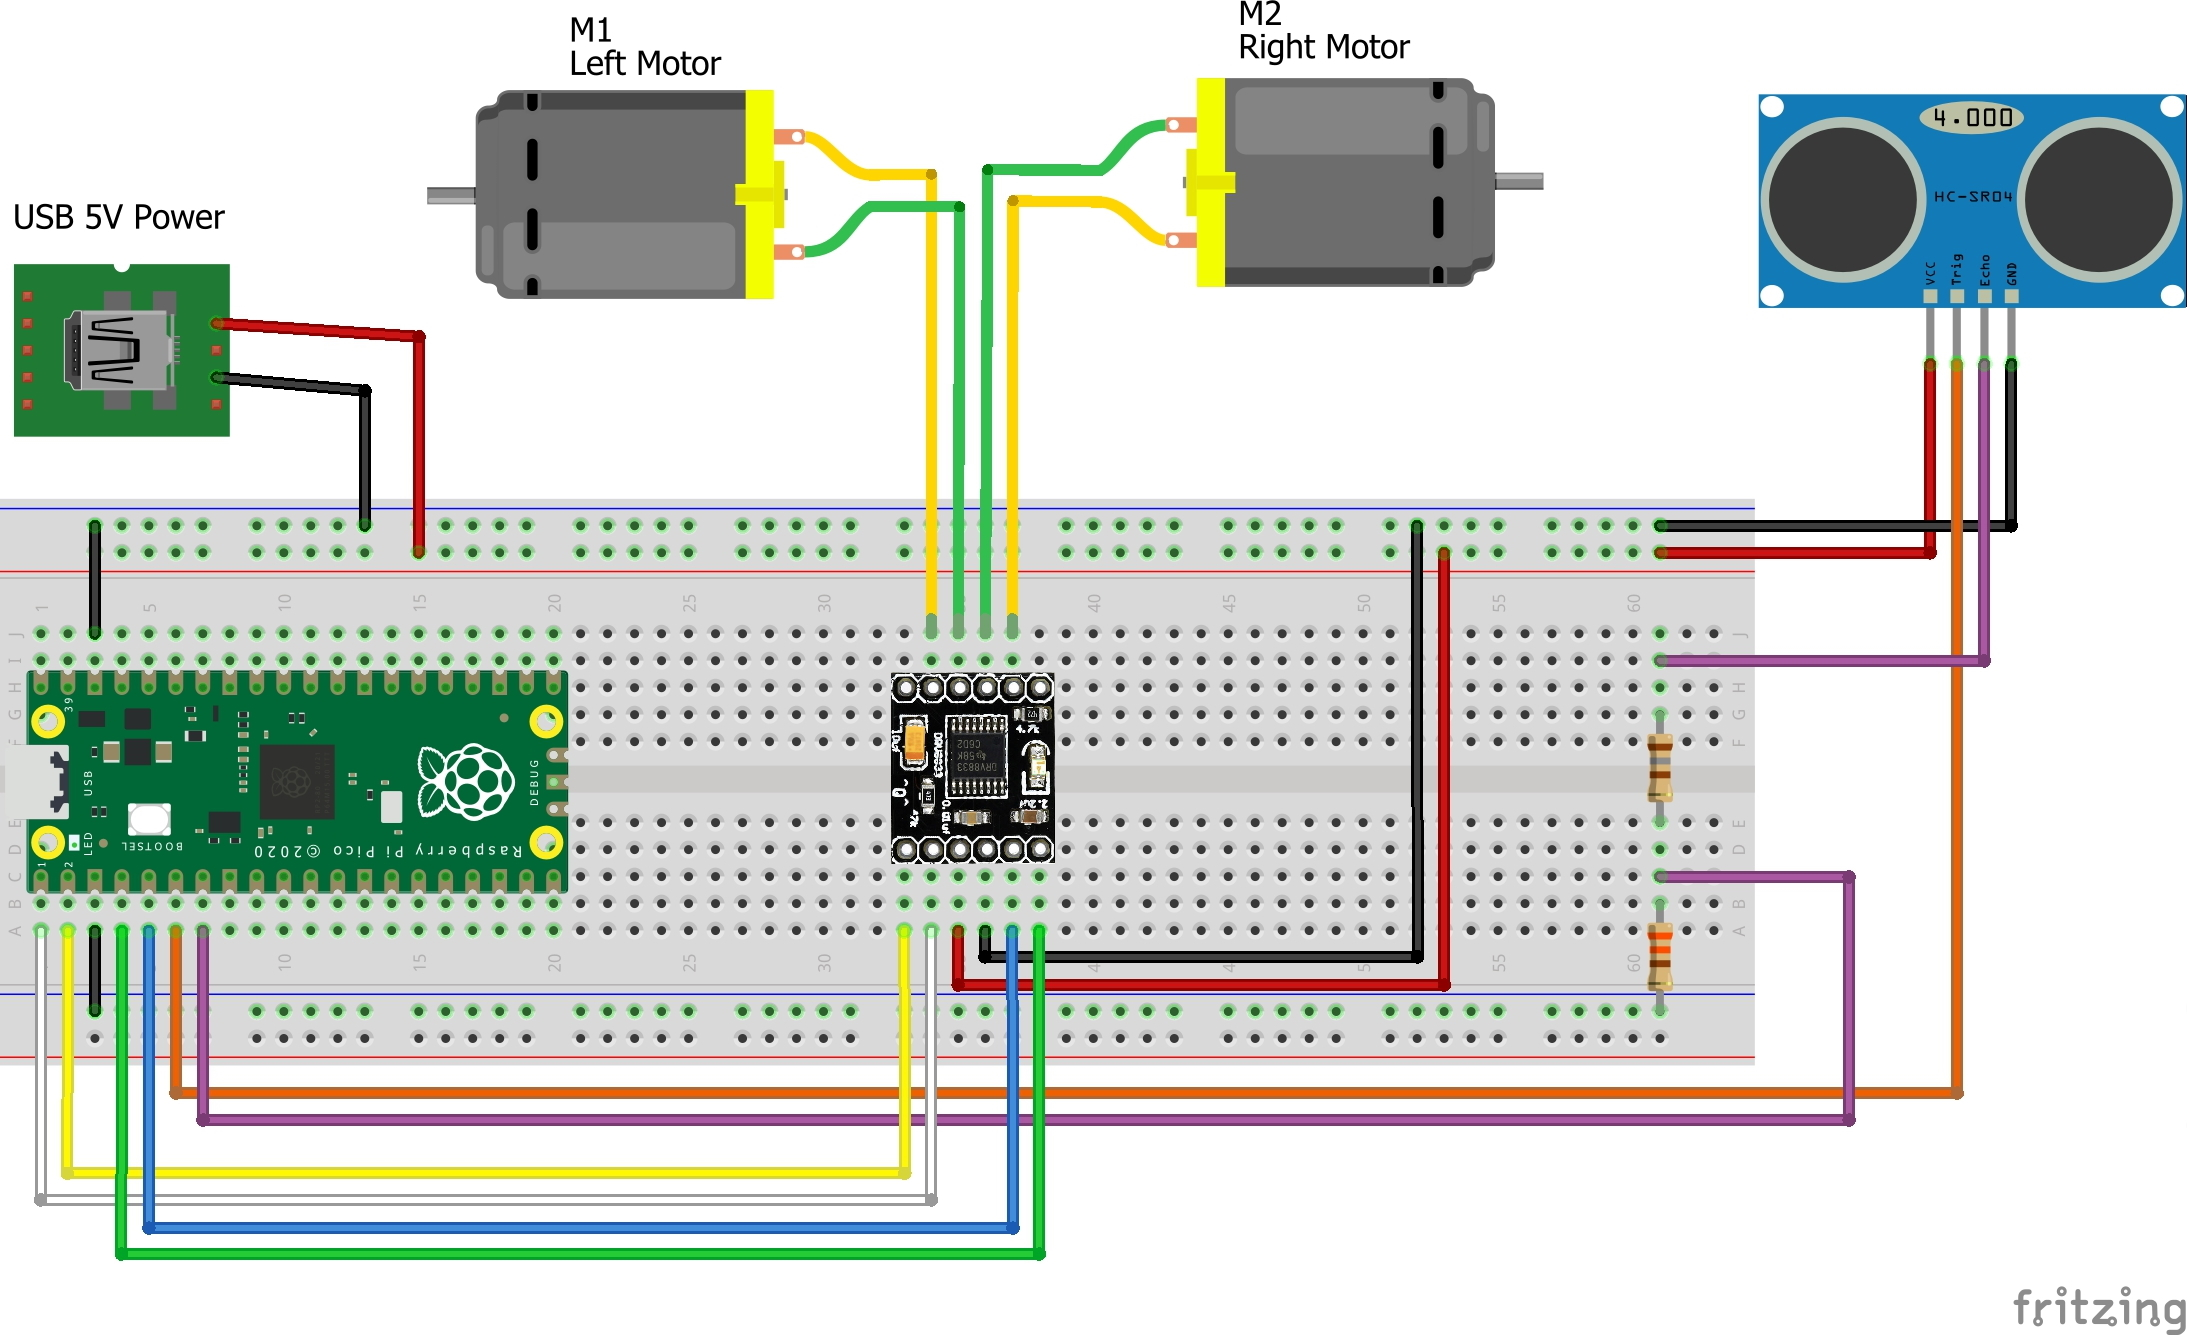
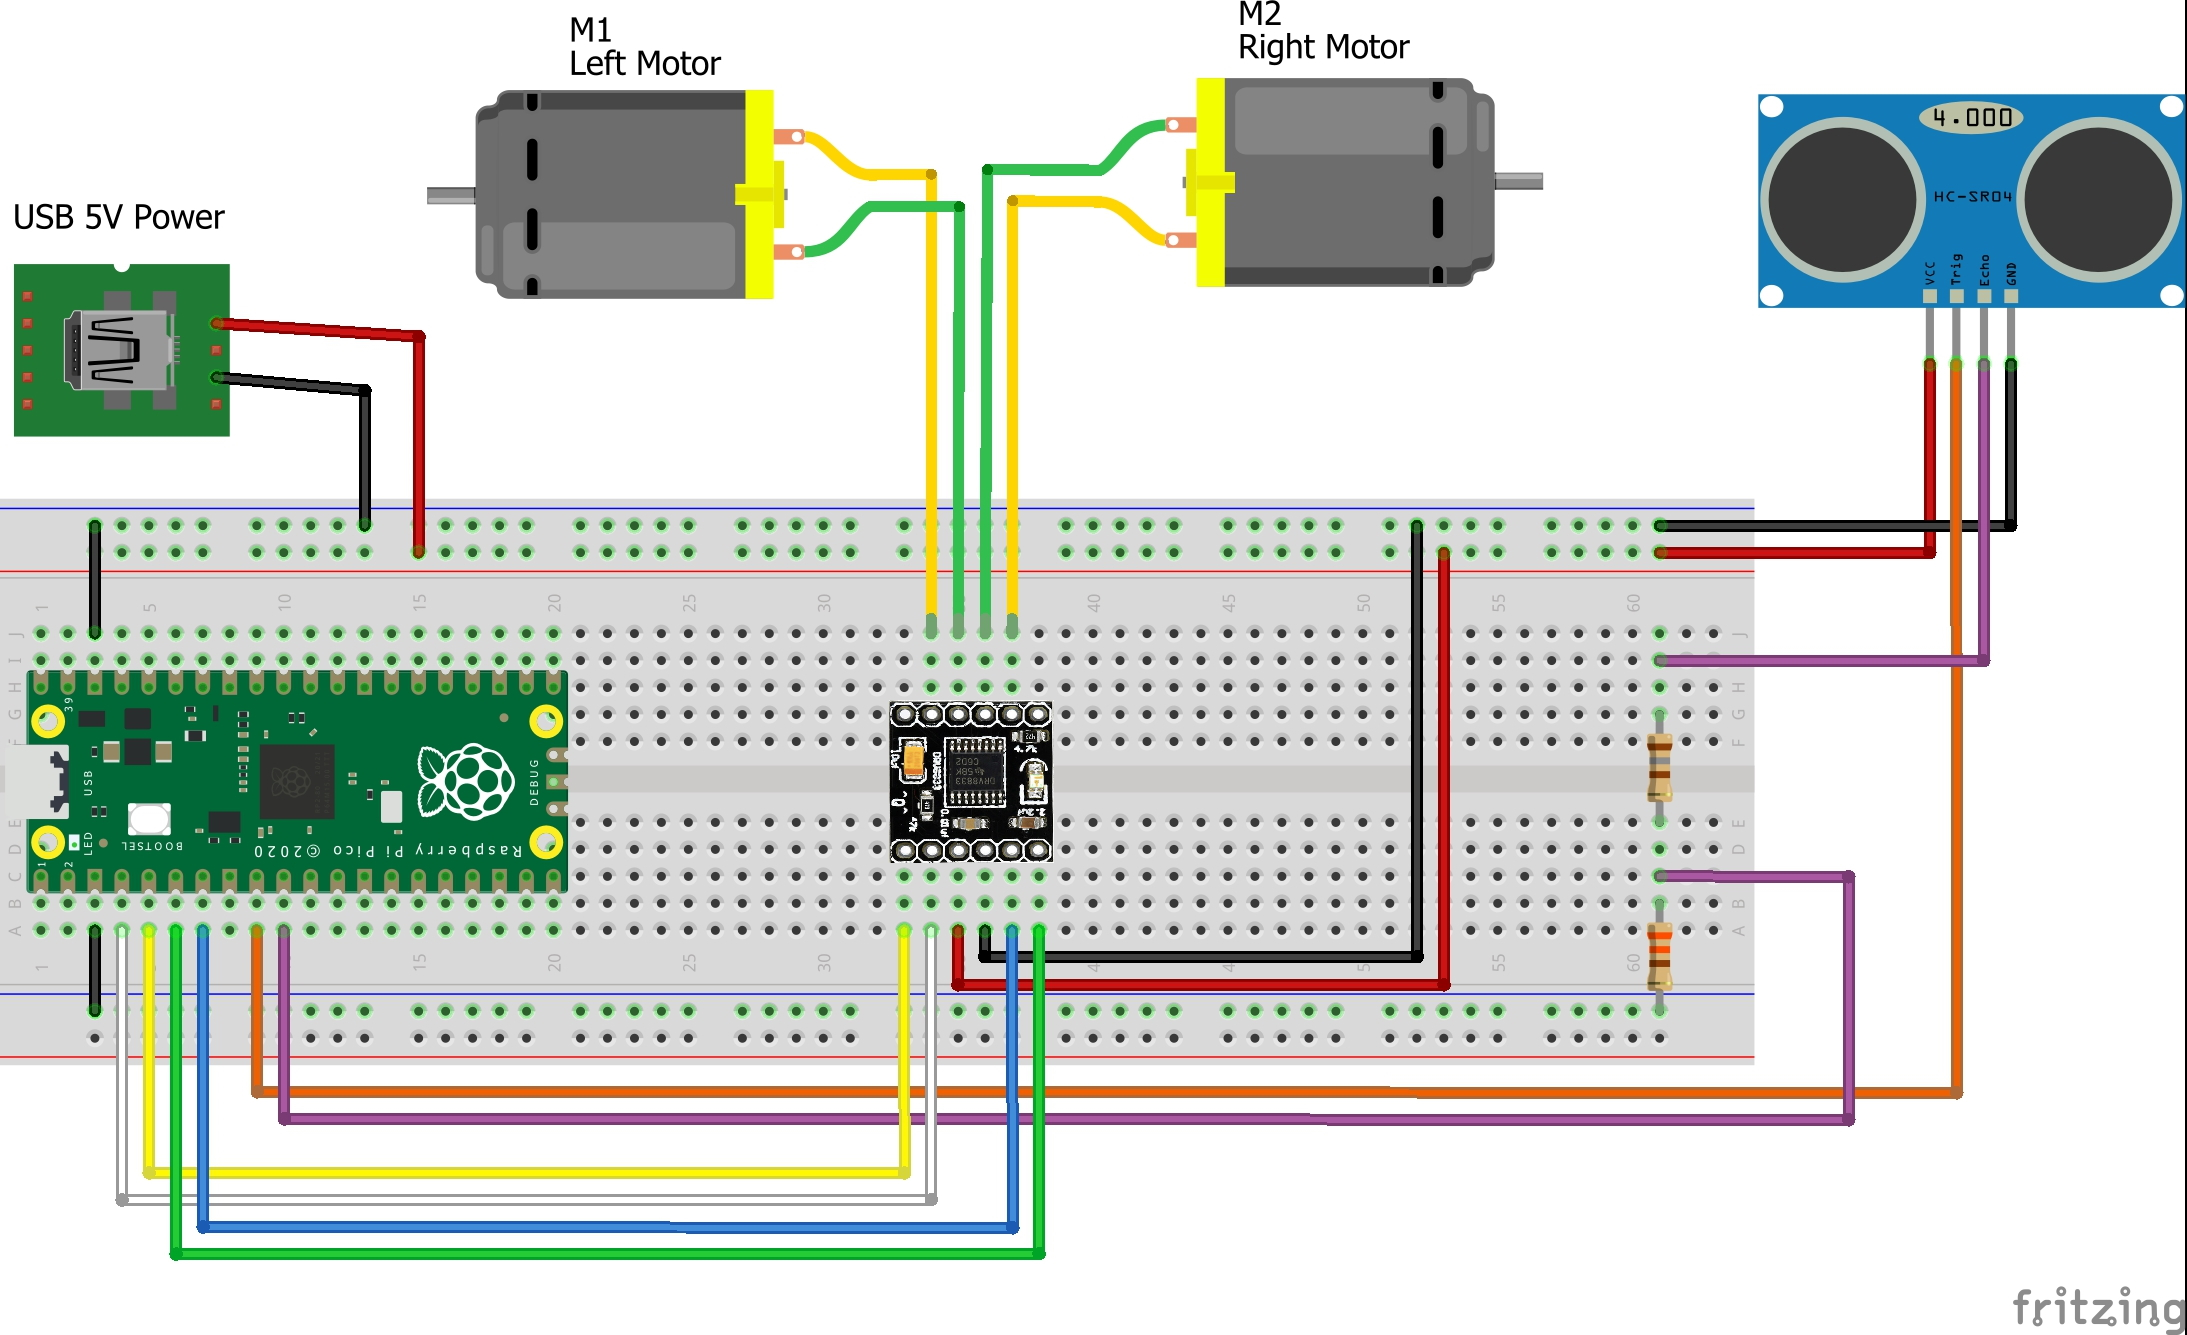
Simply move the GPIO to free the UART GPIOs

diff --git a/src/serpico.c b/src/serpico.c
@@ -6,11 +6,12 @@
  * 
  * Name          : serpico.c
  * @author       : Roberto D'Amico (bobboteck)
- * Last modified : 2021/02/16
- * Revision      : 1.0.0
+ * Last modified : 2021/03/21
+ * Revision      : 1.2.1
  * 
  * Modification History:
  * Date         Version Modified By     Description
+ * 2021-03-21   1.2.1   Roberto D'Amico Simply move the GPIO to free the UART GPIOs
  * 2021-03-01   1.2.0   Roberto D'Amico Implemented sensor limit and move
  * 2021-02-19   1.1.0   Roberto D'Amico Test US HC-SR04 Sensor - OK!
  * 2021-02-16   1.0.0   Roberto D'Amico Move forward and backward the Robot
@@ -46,8 +47,8 @@
 #include "hardware/clocks.h"
 
 const uint LED_PIN = 25;
-const uint US_TRIGGER = 4;
-const uint US_ECHO = 5;
+const uint US_TRIGGER = 6;
+const uint US_ECHO = 7;
 
 uint32_t usMeter(void);
 void turn(uint s0, uint s1);
@@ -67,37 +68,37 @@ int main()
     gpio_init(US_ECHO);
     gpio_set_dir(US_ECHO, GPIO_IN);
 
-    // GPIO 0, 1, 2 and 3 are allocated as PWM
-    gpio_set_function(0, GPIO_FUNC_PWM);
-    gpio_set_function(1, GPIO_FUNC_PWM);
+    // GPIO 2, 3, 4 and 5 are allocated as PWM
     gpio_set_function(2, GPIO_FUNC_PWM);
     gpio_set_function(3, GPIO_FUNC_PWM);
+    gpio_set_function(4, GPIO_FUNC_PWM);
+    gpio_set_function(5, GPIO_FUNC_PWM);
 
-    // Find out which PWM slice is connected to GPIO 0 (Slice 0) and GPIO2 (Slice 1)
-    uint slice0 = pwm_gpio_to_slice_num(0);
+    // Find out which PWM slice is connected to GPIO 2 (Slice 1) and GPIO4 (Slice 2)
     uint slice1 = pwm_gpio_to_slice_num(2);
+    uint slice2 = pwm_gpio_to_slice_num(4);
 
-    // Set Free running, No phase correct, int 1, frac 4 and channel B inverted for Slice 0
-    pwm_set_clkdiv_mode(slice0, PWM_DIV_FREE_RUNNING);
-    pwm_set_phase_correct(slice0, false);
-    pwm_set_clkdiv_int_frac(slice0, 1, 4);
-    pwm_set_output_polarity(slice0, false, true);
     // Set Free running, No phase correct, int 1, frac 4 and channel B inverted for Slice 1
     pwm_set_clkdiv_mode(slice1, PWM_DIV_FREE_RUNNING);
     pwm_set_phase_correct(slice1, false);
     pwm_set_clkdiv_int_frac(slice1, 1, 4);
     pwm_set_output_polarity(slice1, false, true);
+    // Set Free running, No phase correct, int 1, frac 4 and channel B inverted for Slice 2
+    pwm_set_clkdiv_mode(slice2, PWM_DIV_FREE_RUNNING);
+    pwm_set_phase_correct(slice2, false);
+    pwm_set_clkdiv_int_frac(slice2, 1, 4);
+    pwm_set_output_polarity(slice2, false, true);
 
-    // Set the TOP register to 5000, which with the system frequency at 125MHz, corresponds to a frequency of 20KHz for PWM of Slice 0
-    pwm_set_wrap(slice0, 5000);
-    pwm_set_both_levels(slice0, 2500, 2500);
     // Set the TOP register to 5000, which with the system frequency at 125MHz, corresponds to a frequency of 20KHz for PWM of Slice 1
     pwm_set_wrap(slice1, 5000);
     pwm_set_both_levels(slice1, 2500, 2500);
+    // Set the TOP register to 5000, which with the system frequency at 125MHz, corresponds to a frequency of 20KHz for PWM of Slice 2
+    pwm_set_wrap(slice2, 5000);
+    pwm_set_both_levels(slice2, 2500, 2500);
 
     // Enable PWM running
-    pwm_set_enabled(slice0, true);
     pwm_set_enabled(slice1, true);
+    pwm_set_enabled(slice2, true);
 
     // Print over serial the system clock frequency
     uint32_t clockHz = clock_get_hz(clk_sys);
@@ -127,13 +128,13 @@ int main()
             // Check not to exceed the limit of 5000
             if(pwmDuty > 5000) pwmDuty=5000;
             // Set the Duty Cycle on all Slice
-            pwm_set_both_levels(slice0, pwmDuty, pwmDuty);
             pwm_set_both_levels(slice1, pwmDuty, pwmDuty);
+            pwm_set_both_levels(slice2, pwmDuty, pwmDuty);
         }
         else
         {
             // Call function to turn the Robot
-            turn(slice0, slice1);
+            turn(slice1, slice2);
         }
         
         // Print debug information over serial

diff --git a/README.md b/README.md
@@ -26,12 +26,12 @@ To simplify as much as possible, the realization of the Robot, the circuit is mo
 
 In the next table the connection between PICO and DRV8833:
 
-|PICO GPIO|DRV8833|
+|Pico GPIO|DRV8833|
 |---|---|
-|GPIO 0|IN2|
-|GPIO 1|IN1|
-|GPIO 2|IN4|
-|GPIO 3|IN3|
+|GPIO 2|IN2|
+|GPIO 3|IN1|
+|GPIO 4|IN4|
+|GPIO 5|IN3|
 
 Other connection of DRV33:
 
@@ -46,12 +46,14 @@ Other connection of DRV33:
 
 Connection between HC-SR04 and PICO:
 
-|HC-SR04|Direction|PICO GPIO|USB Power Bank|
+|HC-SR04|Direction|Pico GPIO|USB Power Bank|
 |---|:---:|---|---|
-|Trigger| < |GPIO 4|-|
-|Echo| > |GPIO 5 (*)|-|
+|Trigger| < |GPIO 6|-|
+|Echo| > |GPIO 7 (*)|-|
 |VCC|-|-|USB 5V Power|
 |GND|-|-|USB Power GND|
+
+(*) Attention! Do not connect this pin directly to the Pico, but only with a voltage divider.
 
 ## How to compile
 
